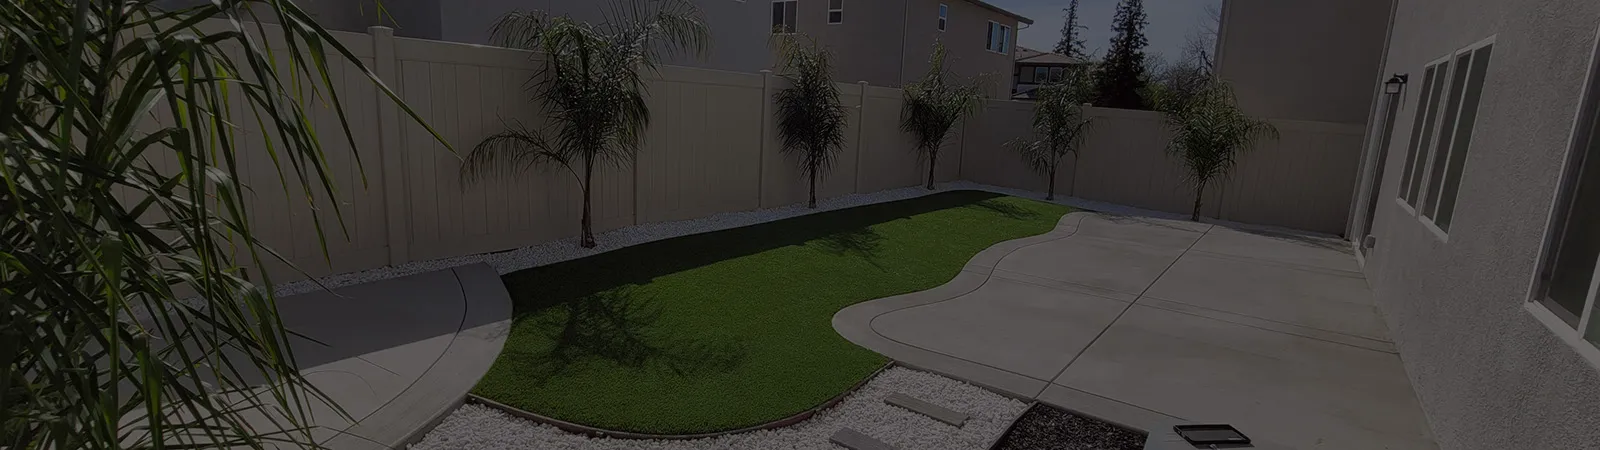
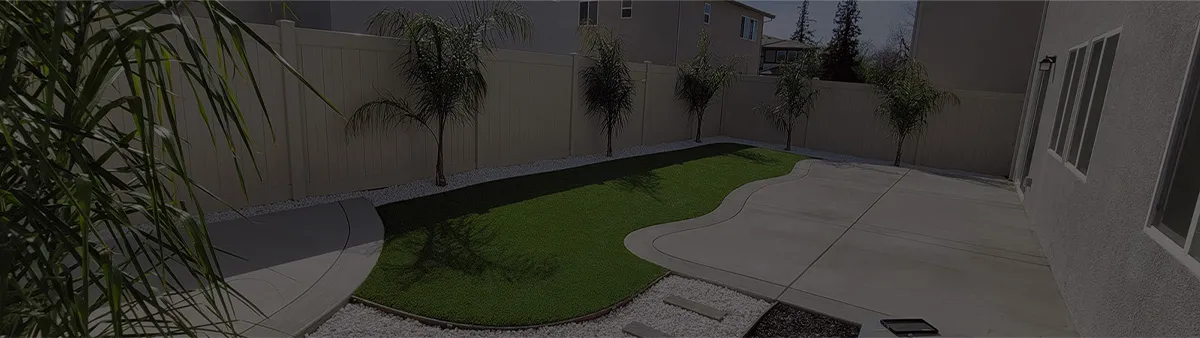
replace large images with varying sizse

diff --git a/components/flex/FullWidthSection.jsx b/components/flex/FullWidthSection.jsx
@@ -10,7 +10,7 @@ const FullWidthSection = ({ background, imageSrc, imageAlt, lowres, children, te
                 {imageFirst ? (
                     <>
                         <div className={"image-section " + imageFlex} style={{ backgroundImage:`url(${lowres})`}}>
-                            <Image loading="lazy" loading="lazy" src={imageSrc} alt={imageAlt} className="image" />
+                            <Image loading="lazy" src={imageSrc} alt={imageAlt} className="image" />
                         </div>
                         <div className={"text-section " + textFlex}>
                             <div>
@@ -26,7 +26,7 @@ const FullWidthSection = ({ background, imageSrc, imageAlt, lowres, children, te
                             </div>
                         </div>
                         <div className={"image-section " + imageFlex} style={{ backgroundImage:`url(${lowres})`}}>
-                            <Image loading="lazy" loading="lazy" src={imageSrc} alt={imageAlt} className="image" />
+                            <Image loading="lazy" src={imageSrc} alt={imageAlt} className="image" />
                         </div>
                     </>
                 )}
@@ -34,7 +34,7 @@ const FullWidthSection = ({ background, imageSrc, imageAlt, lowres, children, te
             <Row className={background + " d-lg-none"}>
                 <Col lg={6}>
                     <figure className="mt-0">
-                        <Image loading="lazy" loading="lazy" src={imageSrc} className="w-100" alt={imageAlt} style={{ backgroundImage:`url(${lowres})`}}/>
+                        <Image loading="lazy" src={imageSrc} className="w-100" alt={imageAlt} style={{ backgroundImage:`url(${lowres})`}}/>
                     </figure>
                 </Col>
                 <Col lg={6}>

diff --git a/scss/custom/_variables.scss b/scss/custom/_variables.scss
@@ -232,7 +232,9 @@ $footer-newsletter-text-align: left;
 $footer-newsletter-text-transform: none;
 $footer-newsletter-block-background: $light-gray;
 
-$footer-thank-you-background: url("/images/backgrounds/rmr-38.webp");
+$footer-thank-you-background: url("/images/backgrounds/thank-you.webp");
+$footer-thank-you-tablet-background: url("/images/backgrounds/thank-you-tablet.webp");
+$footer-thank-you-mobile-background: url("/images/backgrounds/thank-you-mobile.webp");
 $footer-thank-you-border: none;
 $footer-thank-you-font-color: $white;
 $footer-thank-you-font-color-hover: $tertiary;
@@ -278,6 +280,8 @@ $gallery-caption-font-color: $primary;
 
 // Hero
 $hero-background: url("/images/backgrounds/hero/hero.webp");
+$hero-tablet-background: url("/images/backgrounds/hero/hero-tablet.webp");
+$hero-mobile-background: url("/images/backgrounds/hero/hero-mobile.webp");
 $hero-border: none;
 $hero-header-font-color: $white;
 $hero-header-font-family: $header-font-family;
@@ -285,6 +289,8 @@ $hero-text-transform: none;
 
 // Jumbotron
 $jumbotron-background: url("/images/backgrounds/jumbotron/jumbotron.webp");
+$jumbotron-tablet-background: url("/images/backgrounds/jumbotron/jumbotron-tablet.webp");
+$jumbotron-mobile-background: url("/images/backgrounds/jumbotron/jumbotron-mobile.webp");
 $jumbotron-border: none;
 $jumbotron-font-color: $white;
 $jumbotron-font-family: $header-font-family;

diff --git a/scss/components/headers/_jumbotron.scss b/scss/components/headers/_jumbotron.scss
@@ -1,13 +1,28 @@
 .jumbotron {
     min-height: 80vh;
     background-color: $primary;
-    background: $jumbotron-background;
+    background: $jumbotron-mobile-background;
     background-position: center center;
     background-size: cover;
     position: relative;
     display: flex;
     align-items: center;
     justify-content: center;
+
+    @media screen and (min-width: $md) {
+        background-color: $primary;
+        background: $jumbotron-tablet-background;
+        background-position: center center;
+        background-size: cover;
+    }
+
+    @media screen and (min-width: $xl) {
+        background-color: $primary;
+        background: $jumbotron-background;
+        background-position: center center;
+        background-size: cover;
+        
+    }
 
     .jumbotron-content {
         text-align: center;

diff --git a/components/cards/CardsOverlaySlider.jsx b/components/cards/CardsOverlaySlider.jsx
@@ -41,7 +41,7 @@ export default function CardsOverlaySlider({ cardsOverlay }) {
                     <div key={i} className="py-4 px-2 px-md-4">
                         <Link href={url}>
                             <Card>
-                                <Card.Img loading="lazy" src={img.src} height={img.height} width={img.width}  alt={img.alt} style={{ backgroundImage: `url(${img.lowres})` }} />
+                                <Card.Img loading="lazy" src={img.src} height={img.height} width={img.width} alt={img.alt} style={{ backgroundImage: `url(${img.lowres})` }} />
                                 <Card.ImgOverlay>
                                     <Card.Title><strong>{title}</strong></Card.Title>
                                     <Card.Text>

diff --git a/scss/components/headers/_hero.scss b/scss/components/headers/_hero.scss
@@ -1,6 +1,6 @@
 .hero {
     background-color: $primary;
-    background: $hero-background;
+    background: $hero-mobile-background;
     background-position: center center;
     background-size: cover;
     position: relative;
@@ -9,5 +9,20 @@
     justify-content: center;
     padding: 8rem 2rem;
     color: $hero-header-font-color;
+
+    @media screen and (min-width: $md) {
+        background-color: $primary;
+        background: $hero-tablet-background;
+        background-position: center center;
+        background-size: cover;
+    }
+
+    @media screen and (min-width: $xl) {
+        background-color: $primary;
+        background: $hero-background;
+        background-position: center center;
+        background-size: cover;
+    }
+
 
 }

diff --git a/scss/components/footer/_thank-you.scss b/scss/components/footer/_thank-you.scss
@@ -1,7 +1,19 @@
 .thank-you {
-    background: $footer-thank-you-background;
+    background: $footer-thank-you-mobile-background;
     background-size: cover;
     background-position: center center;
+
+    @media screen and (min-width: $md) {
+        background: $footer-thank-you-tablet-background;
+        background-size: cover;
+        background-position: center center;
+    }
+
+    @media screen and (min-width: $xl) {
+        background: $footer-thank-you-background;
+        background-size: cover;
+        background-position: center center;
+    }
 
     .thank-you-block {
         color: $footer-thank-you-font-color;

diff --git a/scss/components/cards/_overlay.scss b/scss/components/cards/_overlay.scss
@@ -5,14 +5,14 @@
         border: none;
         overflow: hidden;
 
-        .Card.Img loading="lazy" {
+        .card-img {
             opacity: .5;
             transition: .5s;
             border-radius: $cards-overlay-border-radius;
         }
 
         &:hover {
-            .Card.Img loading="lazy" {
+            .card-img {
                 transform: scale(1.1);
             }
 

diff --git a/components/images/DoubleFigure.jsx b/components/images/DoubleFigure.jsx
@@ -1,7 +1,7 @@
 /* Double Figure Component */
 
 // React Components
-import { LazyLoadImage } from "react-lazy-load-image-component";
+import { Image } from "react-bootstrap";
 
 export default function DoubleFigure({ image1, image2, className }) {
     return (
